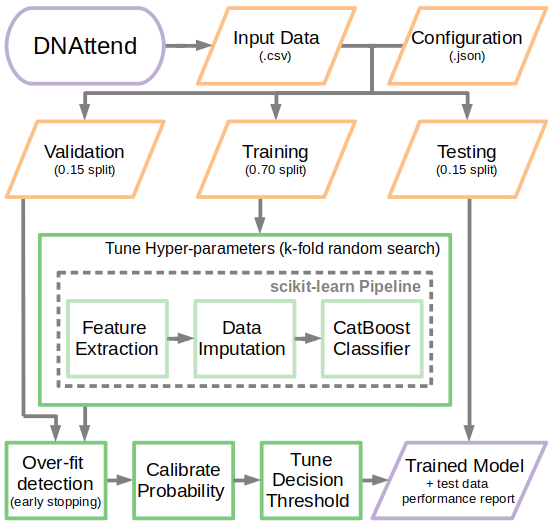
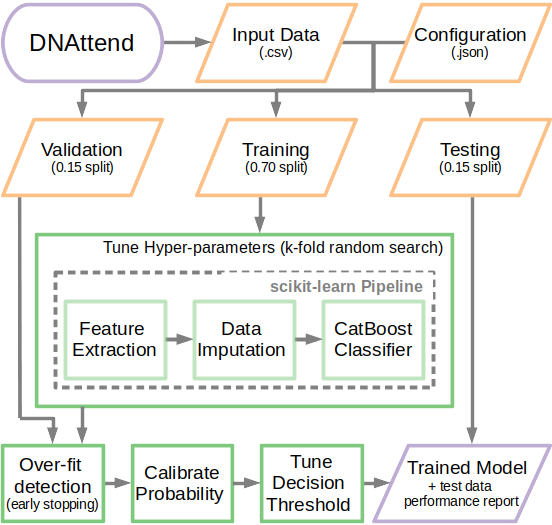
Update documentation with simplified workflows and updated configuation file.

diff --git a/src/dnattend/simulate.py b/src/dnattend/simulate.py
@@ -72,29 +72,35 @@ def generateData(size: int = 50_000, seed: int = 42,
 
 
 def writeConfig(config: str = None):
-    catCols = ['day', 'priority', 'speciality', 'consultationMedia', 'site']
-    boolCols = ['firstAppointment']
-    numericCols = ['age']
-    config_settings = ({
-        'input': 'DNAttend-example.csv',
-        'finalModel': 'catboost',
-        'target': 'status',
-        'catCols': catCols,
-        'boolCols': boolCols,
-        'numericCols': numericCols,
-        'train_size': 0.7,
-        'test_size': 0.15,
-        'val_size': 0.15,
-        'tuneThresholdBy':     'f1',
-        'cvFolds':             5,
-        'catboostIterations':  100,
-        'hypertuneIterations': 5,
-        'evalIterations':      10_000,
-        'earlyStoppingRounds': 10,
-        'seed':                42
-    })
+    config_settings = (''
+        'input: DNAttend-example.csv    # Path to input data (Mandatory).\n'
+        'target: status                 # Column name of target (Mandatory).\n'
+        'DNAclass: 1                    # Value of target corresponding to DNA.\n'
+        'out: .                         # Output directory to save results.\n'
+        'finalModel: catboost           # Method to train final model (catboost or logistic).\n'
+        'catCols:                       # Column names of categorical features.\n'
+        '    - day\n'
+        '    - priority\n'
+        '    - speciality\n'
+        '    - consultationMedia\n'
+        '    - site\n'
+        'boolCols:                      # Column names of boolean features.\n'
+        '    - firstAppointment\n'
+        'numericCols:                   # Column names of numeric features.\n'
+        '    - age\n'
+        'train_size: 0.7                # Proportion of data for training.\n'
+        'test_size: 0.15                # Proportion of data for testing.\n'
+        'val_size: 0.15                 # Proportion of data for validation.\n'
+        'tuneThresholdBy: f1            # Metric to tune decision threshold (f1 or roc).\n'
+        'cvFolds: 5                     # Hyper-tuning cross-validations.\n'
+        'catboostIterations: 100        # Hyper-tuning CatBoost iterations.\n'
+        'hypertuneIterations: 5         # Hyper-tuning parameter samples.\n'
+        'evalIterations: 10_000         # Upper-limit over-fit iterations.\n'
+        'earlyStoppingRounds: 10        # Over-fit detection early stopping rounds.\n'
+        'seed: 42                       # Seed to ensure workflow reproducibility.\n'
+    )
     if config is None:
-        yaml.dump(config_settings, sys.stderr)
+        sys.stderr.write(config_settings)
     else:
         with open(config, 'w') as fh:
-            yaml.dump(config_settings, fh)
+            fh.write(config_settings)

diff --git a/README_files/docs.md b/README_files/docs.md
@@ -1,19 +1,14 @@
 # DNAttend - ML framework for predicting patient non-attendance
 
-## Train, test and validate a CatBoost Classifier for predicting patient non-attendance (DNA)
+## Additional documentation and example visualisations
 
 [![status: experimental](https://github.com/GIScience/badges/raw/master/status/experimental.svg)](https://github.com/GIScience/badges#experimental)
 ![build: status](https://github.com/nhsx/dna-risk-predict/actions/workflows/tests.yaml/badge.svg)
 
 ## Table of contents
 
-  * [Installation](#installation)
   * [Workflow](#workflow)
-  * [Usage](#usage)
-    * [Generate Example Data](#generate-example-data)
-    * [Split Data (Test, Train, Validation)](#split-data-test-train-validation)
-    * [Train Model](#train-model)
-    * [Evaluate Model](#evaluate-model)
+  * [Evaluate Model](#evaluate-model)
       * [Feature Importance](#feature-importance)
       * [ROC Curve](#roc-curve)
       * [Precision-Recall Curve](#precision-recall-curve)
@@ -26,68 +21,10 @@
   * [Contact](#contact)
 
 
-## Installation
-
-```bash
-pip install git+https://github.com/nhsx/dna-risk-predict.git
-```
-
 ## Worklow
 
-![workflow](./README_files/DNApredictFlowchart.png)
+![workflow](./DNApredictFlowchart.png)
  <br> *Overview of DNAttend workflow*
-
-
-### Generate Example Data
-The ```simulate``` sub-command generates suitably formatted input data for testing functionality.
-It also writes an example config file in YAML format.
-
-```bash
-dnattend simulate --config config.yaml > DNAttend-example.csv
-```
-
-### Train a model
-
-```bash
-dnattend train config.yaml
-```
-
-### Train Model
-
-```python
-catCols = ['day', 'priority', 'speciality', 'consultationMedia', 'site']
-boolCols = ['firstAppointment']
-numericCols = ['age']
-
-trainingParams = ({
-    'catCols':             catCols,
-    'boolCols':            boolCols,
-    'numericCols':         numericCols,
-    'tuneThresholdBy':     'f1',
-    'cvFolds':             5,
-    'catboostIterations':  100,
-    'hypertuneIterations': 5,
-    'evalIterations':      10_000,
-    'earlyStoppingRounds': 10,
-    'seed':                42
-})
-```
-
-```python
-# Optional - define estimator hyper-parameter search space
-hyperParams = ({
-    'estimator__depth':           randint(4, 10),
-    'estimator__l2_leaf_reg':     randint(2, 10),
-    'estimator__random_strength': uniform.rvs(0, 10, size=100),
-})
-```
-
-```python
-models = train.trainModel(data, hyperParams=hyperParams, **trainingParams)
-```
-
-![model](./README_files/modelWorkflow.png)
- <br> *Summary of DNAttend CatBoost Pipeline*
 
 ### Evaluate Model
 
@@ -99,7 +36,7 @@ fig = featureImportances.plot.barh()
 fig.figure.savefig('featureImportances.png')
 ```
 
-![featureImportance](./README_files/featureImportances.pdf)
+![featureImportance](./featureImportances.pdf)
  <br> *Feature Importances.*
 
 #### ROC Curve
@@ -109,7 +46,7 @@ fig, ax = test.plotROC(models, data)
 fig.figure.savefig('ROCcurve.png')
 ```
 
-![ROC](./README_files/ROCcurve.png)
+![ROC](./ROCcurve.png)
  <br> *Receiver Operating Characteristic curve for both CatBoost and Logistic Model.*
 
 #### Precision-Recall Curve
@@ -119,7 +56,7 @@ fig, ax = test.plotPrecisionRecall(models, data)
 fig.figure.savefig('PRcurve.png', dpi=300)
 ```
 
-![ROC](./README_files/PRcurve.png)
+![ROC](./PRcurve.png)
  <br> *Precision-Recall curve for both CatBoost and Logistic Model.*
 
 #### Calibration Curve
@@ -129,7 +66,7 @@ fig, ax = test.plotCalibrationCurve(models, data, strategy='quantile')
 fig.figure.savefig('CalibrationCurve.png')
 ```
 
-![ROC](./README_files/CalibrationCurve.png)
+![ROC](./CalibrationCurve.png)
  <br> *Calibration curve for both CatBoost and Logistic Model.*
 
 #### Evaluation Report
@@ -168,40 +105,3 @@ print(report)
 }
 
 ```
-
-### Refit Model with All Data
-Following parameterisation, decision threshold tuning and validation the `refitData()` function can be used to refit a new model on the whole data set.
-
-```python
-modelType = 'catboost' # select from catboost or logistic
-finalModel = train.refitData(models[modelType]['model'], data)
-```
-
-### Generate Predictions
-The trained model is now ready to be used.
-Predictions should be made with the `predict()` wrapper function - this ensures the tuned decision threshold is correct applied when assigning classes.
-The output of `predict()` includes the decision class (i.e.`Attend` and `DNA`) and the underlying probabilities of theses classes.
-The output results of this example can be found [here](./README_files/example-data-predictions.csv)
-
-```python
-df[['Attend', 'DNA', 'class']] = test.predict(finalModel, df)
-```
-
-### Contributing
-
-Contributions are what make the open source community such an amazing place to learn, inspire, and create. Any contributions you make are **greatly appreciated**.
-
-1. Fork the Project
-2. Create your Feature Branch (`git checkout -b feature/AmazingFeature`)
-3. Commit your Changes (`git commit -m 'Add some AmazingFeature'`)
-4. Push to the Branch (`git push origin feature/AmazingFeature`)
-5. Open a Pull Request
-
-### License
-
-Distributed under the MIT License. _See [LICENSE](./LICENSE) for more information._
-
-### Contact
-
-If you have any other questions please contact the author **[Stephen Richer](https://www.linkedin.com/in/stephenricher/)**
-at stephen.richer@proton.me

diff --git a/README.md b/README.md
@@ -19,6 +19,9 @@
     * [Evaluate Model](#evaluate-model)
     * [Refit Model with All Data](#refit-model-with-all-data)
     * [Generate Predictions](#generate-predictions)
+  * [Example Data Verification](#example-data-verification)
+  * [Configuration](#configuration)
+  * [Further Documentation](#additional-documentation)
   * [Contributing](#contributing)
   * [License](#license)
   * [Contact](#contact)
@@ -79,8 +82,9 @@ docker run -v $(pwd):/out -w /out \
 
 
 ## Worklow
+Refer to the [additional documentation](./README_files/docs.md) for further details of the underlying classifier framework.
 
-![workflow](./README_files/DNApredictFlowchart.png)
+![workflow](./README_files/DNApredictSimpleFlowchart.png)
  <br> *Overview of DNAttend workflow*
 
 
@@ -92,17 +96,22 @@ It also writes an example config file in YAML format.
 dnattend simulate --config config.yaml > DNAttend-example.csv
 ```
 
+
 ### Train Model
 
 ```bash
 dnattend train config.yaml
 ```
 
+
 ### Evaluate Model
+
+Refer to the [additional documentation](./README_files/docs.md) for example output visualisation and performance metrics.
 
 ```bash
 dnattend test config.yaml
 ```
+
 
 ### Refit Model with All Data
 Following parameterisation, decision threshold tuning and validation the `retrain` module can be used to refit a new model on the whole data set.
@@ -120,6 +129,51 @@ The output results of this example can be found [here](./README_files/example-da
 ```bash
 dnattend predict --verify DNAttend-example.csv catboost-final.pkl > FinalPredictions.csv
 ```
+
+**Note: the `--verify` flag is only required when running the example workflow ([see below](#example-data-verifcation)).**
+
+
+## Example Workflow Verification
+Following initial installation, it is recommended that users run the example workflow, as described, to verify that the pipeline is functioning as expected.
+The `--verify` flag of `dnattend predict`, as shown above, will check the results against the expected output and notify the user if the output matches or not.
+
+
+## Configuration
+The `dnattend simulate` command writes an example documented configuration file that the user can use a template.
+A copy of this file is shown below and available to download [here](./README_files/config.yaml).
+
+```YAML
+input: DNAttend-example.csv    # Path to input data (Mandatory).
+target: status                 # Column name of target (Mandatory).
+DNAclass: 1                    # Value of target corresponding to DNA.
+out: .                         # Output directory to save results.
+finalModel: catboost           # Method to train final model (catboost or logistic).
+catCols:                       # Column names of categorical features.
+    - day
+    - priority
+    - speciality
+    - consultationMedia
+    - site
+boolCols:                      # Column names of boolean features.
+    - firstAppointment
+numericCols:                   # Column names of numeric features.
+    - age
+train_size: 0.7                # Proportion of data for training.
+test_size: 0.15                # Proportion of data for testing.
+val_size: 0.15                 # Proportion of data for validation.
+tuneThresholdBy: f1            # Metric to tune decision threshold (f1 or roc).
+cvFolds: 5                     # Hyper-tuning cross-validations.
+catboostIterations: 100        # Hyper-tuning CatBoost iterations.
+hypertuneIterations: 5         # Hyper-tuning parameter samples.
+evalIterations: 10_000         # Upper-limit over-fit iterations.
+earlyStoppingRounds: 10        # Over-fit detection early stopping rounds.
+seed: 42                       # Seed to ensure workflow reproducibility.
+```
+
+
+## Further Documentation
+Refer to the [additional documentation](./README_files/docs.md) for further technical details of the modeling framework and visualisations from the example data set.
+
 
 ### Contributing
 
